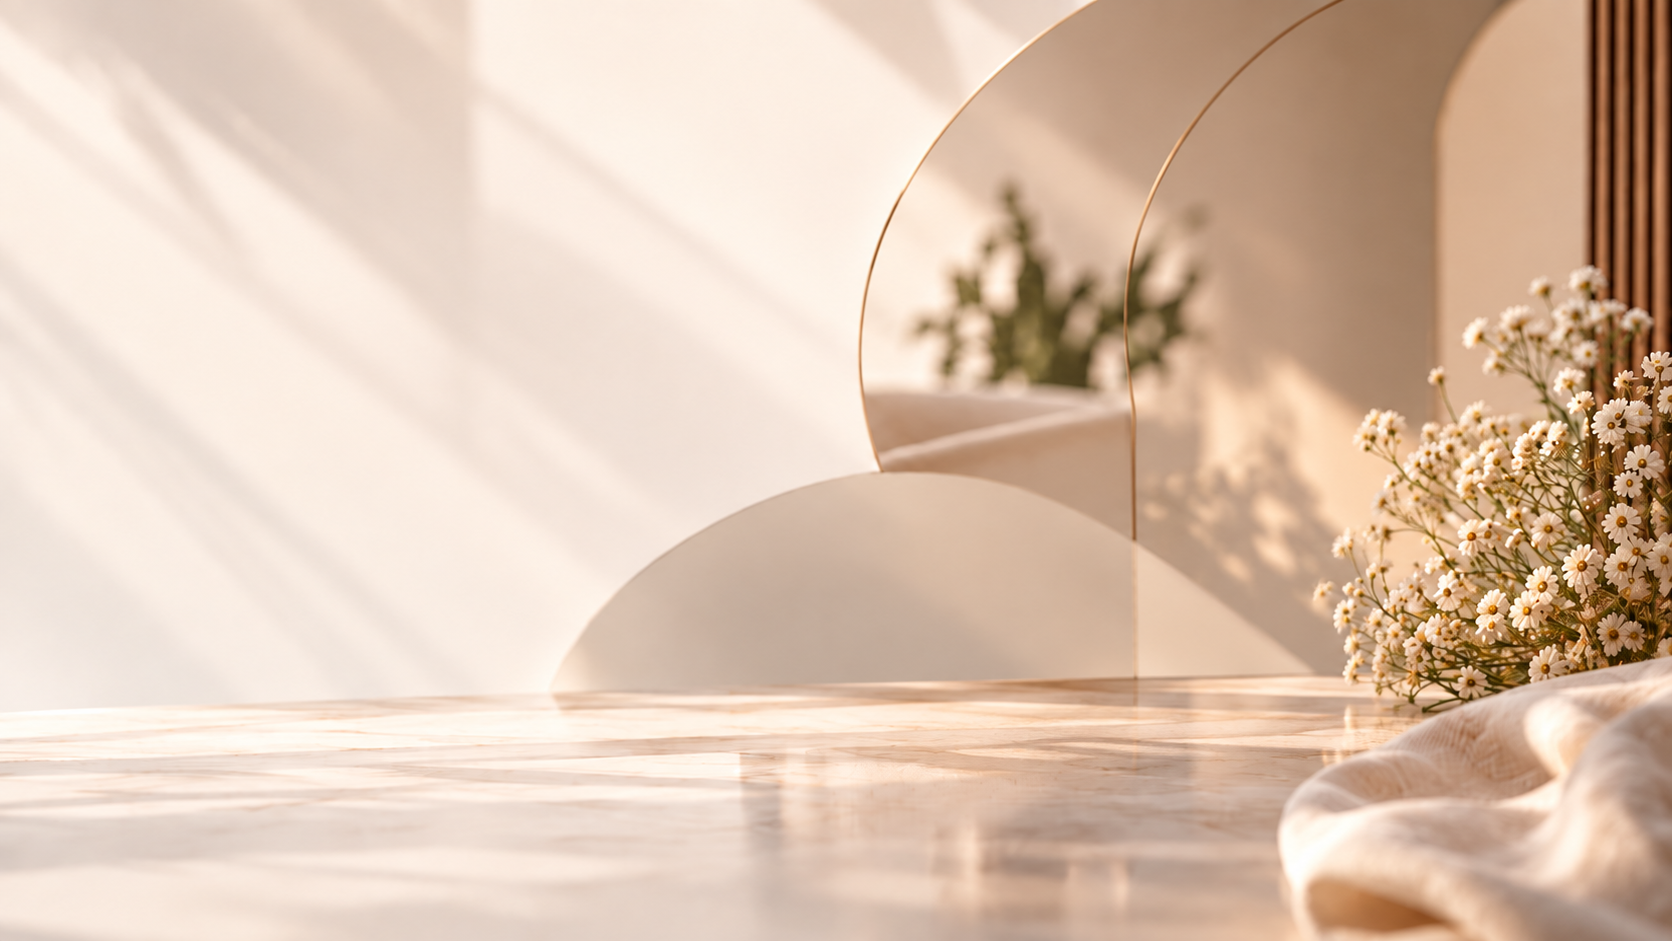
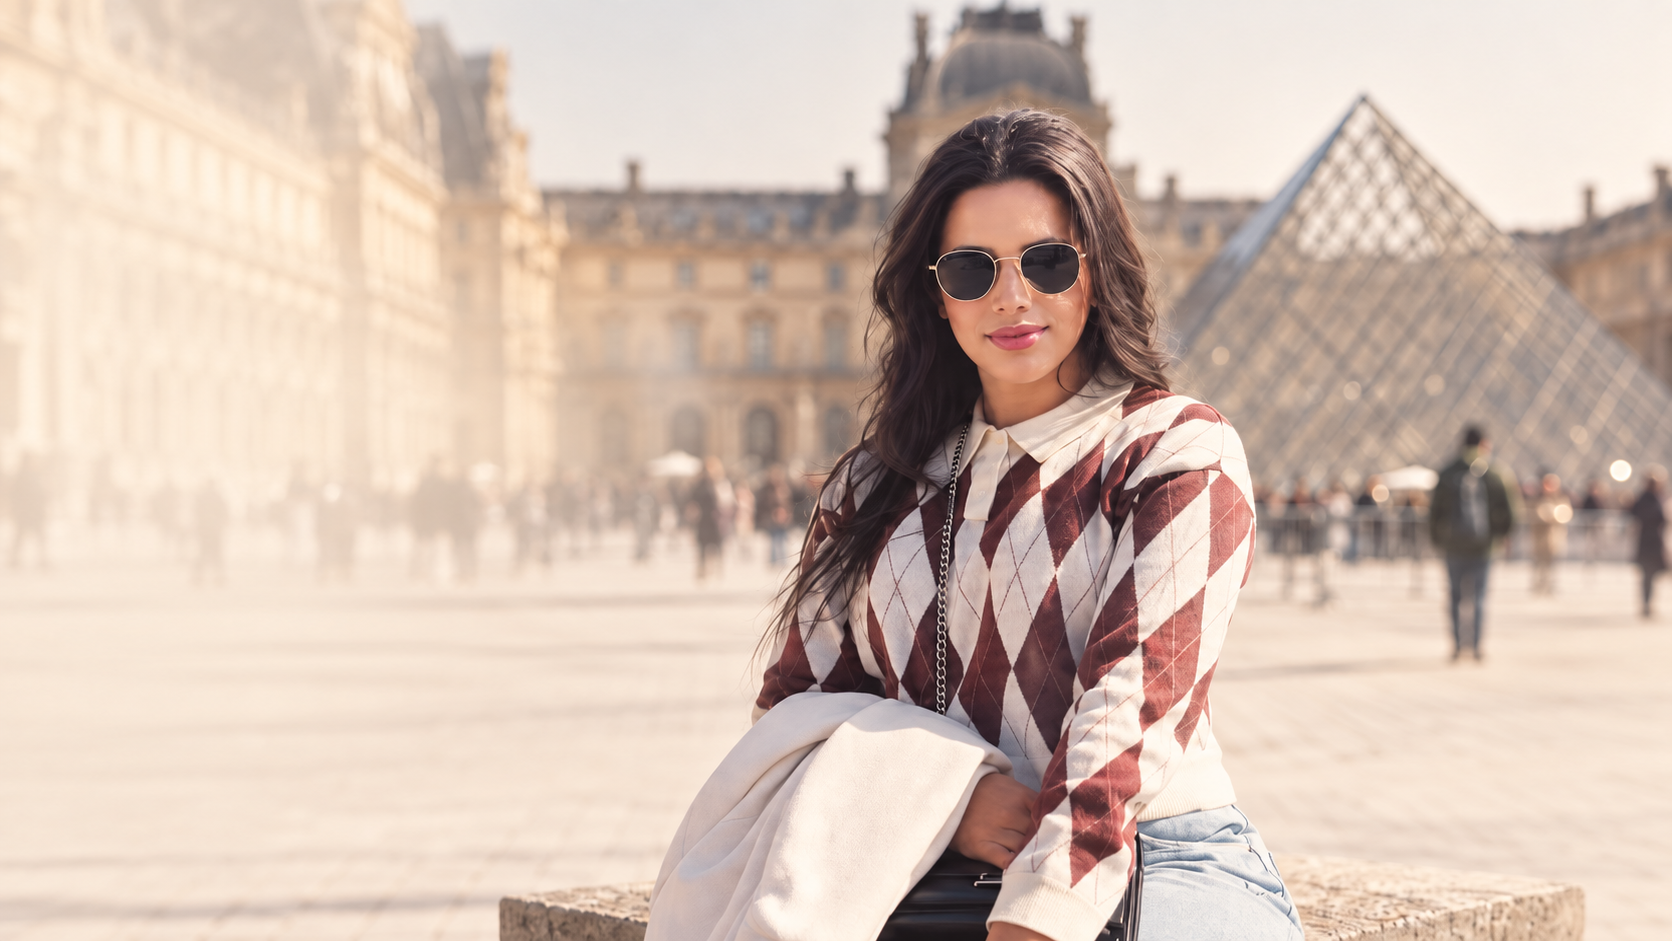
Hero com estetoscópio 3D, novo Instagram e ajustes nos carrosséis
- Adiciona container do modelo 3D na Hero e importmap do Three.js
- Atualiza imagem de fundo da Hero
- Troca link do Instagram para @sara_enfermeira
- Reduz carrossel da Sara para 4 fotos e remove efeitos de reveal dos carrosséis
- Remove data-wa-modal dos botões de WhatsApp

diff --git a/index.html b/index.html
@@ -68,11 +68,17 @@
       <div class="hero__veil" aria-hidden="true"></div>
 
       <div class="hero__inner container">
+        <!-- Estetoscópio 3D (GLB) — arraste para girar -->
+        <div class="hero__model" id="heroModel" role="img" aria-label="Estetoscópio em 3D. Clique e arraste para girar.">
+          <div class="hero__model-loader" aria-hidden="true"><span class="hero__model-progress"></span></div>
+          <div class="hero__model-stage"></div>
+        </div>
+
         <div class="hero__content">
           <span class="hero__line" aria-hidden="true"></span>
           <h1 class="hero__title">Cuidado profissional <br class="hero__br">no conforto da sua casa</h1>
           <p class="hero__subtitle">Assistência domiciliar de enfermagem</p>
-          <a class="btn btn--hero" href="https://wa.me/5516992502596" target="_blank" rel="noopener noreferrer" data-wa-modal>
+          <a class="btn btn--hero" href="https://wa.me/5516992502596" target="_blank" rel="noopener noreferrer">
             <span class="btn__label">Agendar atendimento</span>
             <svg class="btn__arrow" width="26" height="12" viewBox="0 0 26 12" fill="none" aria-hidden="true">
               <path d="M0 6h24M19 1l5 5-5 5" stroke="currentColor" stroke-width="1.25" stroke-linecap="round" stroke-linejoin="round"/>
@@ -144,17 +150,14 @@
         <div class="about__gallery reveal reveal--right" style="--d: 300ms">
           <p class="about__script" aria-hidden="true">Cuidar<br>também faz parte<br>de quem sou <span class="about__heart">♡</span></p>
 
-          <div class="carousel img-reveal-slides" id="carousel" style="--reveal-color: var(--linen); --wipe-d: 380ms" aria-roledescription="carrossel" aria-label="Fotos da Sara">
+          <div class="carousel" id="carousel" aria-roledescription="carrossel" aria-label="Fotos da Sara">
             <div class="carousel__viewport">
               <ul class="carousel__track">
                 <li class="carousel__slide"><img src="Assets/img - Sara - 1.jpeg" alt="Sara em frente ao Museu do Louvre, em Paris" style="object-position: 50% 20%" loading="eager" decoding="async"></li>
                 <li class="carousel__slide"><img src="Assets/img - Sara - 2.jpeg" alt="Sara sorrindo com boné, em um mirante" style="object-position: 50% 40%" loading="lazy" decoding="async"></li>
                 <li class="carousel__slide"><img src="Assets/img - Sara - 3.jpeg" alt="Sara ao lado do Mickey em um parque" style="object-position: 62% 40%" loading="lazy" decoding="async"></li>
                 <li class="carousel__slide"><img src="Assets/img - Sara - 4.jpeg" alt="Sara na neve com roupa de esqui" style="object-position: 55% 40%" loading="lazy" decoding="async"></li>
-                <li class="carousel__slide"><img src="Assets/img - Sara - 5.jpeg" alt="Sara em selfie ao pôr do sol" style="object-position: 50% 60%" loading="lazy" decoding="async"></li>
-                <li class="carousel__slide"><img src="Assets/img - Sara - 6.jpeg" alt="Sara com gorro em frente às montanhas" style="object-position: 30% 65%" loading="lazy" decoding="async"></li>
-                <li class="carousel__slide"><img src="Assets/img - Sara - 7.jpeg" alt="Sara em uma passarela sobre um rio cristalino" style="object-position: 52% 50%" loading="lazy" decoding="async"></li>
-                <li class="carousel__slide"><img src="Assets/img - Sara - 8.jpeg" alt="Sara em frente a uma roda-gigante" style="object-position: 58% 40%" loading="lazy" decoding="async"></li>
+                
               </ul>
             </div>
 
@@ -216,6 +219,7 @@
                 <p class="service__text">Acompanhamento profissional de enfermagem no ambiente domiciliar durante necessidades pontuais ou períodos de recuperação, incluindo avaliação e acompanhamento da evolução clínica.</p>
               </div>
             </li>
+            
             <li class="service reveal reveal--from-right" style="--d: 840ms">
               <span class="service__num" aria-hidden="true">04</span>
               <div class="service__body">
@@ -226,7 +230,7 @@
           </ol>
 
           <div class="services__gallery" data-reveal="0.25">
-            <div class="carousel carousel--patients reveal reveal--rise img-reveal-slides" style="--reveal-color: var(--sand); --wipe-d: 220ms" id="patientsCarousel" aria-roledescription="carrossel" aria-label="Fotos de atendimentos">
+            <div class="carousel carousel--patients reveal reveal--rise" id="patientsCarousel" aria-roledescription="carrossel" aria-label="Fotos de atendimentos">
               <div class="carousel__viewport">
                 <ul class="carousel__track">
                   <li class="carousel__slide"><img src="Assets/img - paciente - 1.jpeg" alt="Paciente sorrindo durante atendimento domiciliar" style="object-position: 50% 62%" loading="lazy" decoding="async"></li>
@@ -294,7 +298,7 @@
         </div>
 
         <div class="who__visual reveal reveal--right" style="--d: 300ms">
-          <figure class="who__photo img-reveal" style="--reveal-color: var(--linen); --wipe-d: 320ms">
+          <figure class="who__photo img-reveal" style="--wipe-d: 420ms">
             <img src="Assets/img - seção - 4.png" alt="Enfermeira segurando as mãos de uma paciente idosa em casa" loading="lazy" decoding="async">
           </figure>
 
@@ -427,8 +431,19 @@
   <div class="traveler" id="traveler" aria-hidden="true"><img src="" alt=""></div>
 
   <!-- WhatsApp flutuante -->
-  <a class="wa-float" href="https://wa.me/5516992502596" target="_blank" rel="noopener noreferrer" aria-label="Falar com Sara pelo WhatsApp" data-wa-modal><svg viewBox="0 0 24 24" fill="none" aria-hidden="true"><path d="M12 3.5a8.5 8.5 0 0 0-7.3 12.8L3.5 20.5l4.3-1.1A8.5 8.5 0 1 0 12 3.5Z" stroke="currentColor" stroke-width="1.5" stroke-linejoin="round"/><path d="M9.1 8.6c.2-.5.5-.5.8-.5h.5c.2 0 .4.1.5.4l.5 1.3c.1.2 0 .4-.1.6l-.5.6c.6 1.2 1.5 2.1 2.7 2.7l.6-.5c.2-.2.4-.2.6-.1l1.3.5c.3.1.4.3.4.5v.5c0 .3-.1.6-.5.8-.7.4-1.5.3-2.3 0-2.1-.9-3.7-2.4-4.5-4.5-.3-.8-.4-1.6 0-2.3Z" stroke="currentColor" stroke-width="1.3" stroke-linejoin="round"/></svg></a>
+  <a class="wa-float" href="https://wa.me/5516992502596" target="_blank" rel="noopener noreferrer" aria-label="Falar com Sara pelo WhatsApp"><svg viewBox="0 0 24 24" fill="none" aria-hidden="true"><path d="M12 3.5a8.5 8.5 0 0 0-7.3 12.8L3.5 20.5l4.3-1.1A8.5 8.5 0 1 0 12 3.5Z" stroke="currentColor" stroke-width="1.5" stroke-linejoin="round"/><path d="M9.1 8.6c.2-.5.5-.5.8-.5h.5c.2 0 .4.1.5.4l.5 1.3c.1.2 0 .4-.1.6l-.5.6c.6 1.2 1.5 2.1 2.7 2.7l.6-.5c.2-.2.4-.2.6-.1l1.3.5c.3.1.4.3.4.5v.5c0 .3-.1.6-.5.8-.7.4-1.5.3-2.3 0-2.1-.9-3.7-2.4-4.5-4.5-.3-.8-.4-1.6 0-2.3Z" stroke="currentColor" stroke-width="1.3" stroke-linejoin="round"/></svg></a>
 
   <script src="js/main.js" defer></script>
+
+  <!-- Three.js (ES modules via CDN) para o estetoscópio 3D da Hero -->
+  <script type="importmap">
+    {
+      "imports": {
+        "three": "https://cdn.jsdelivr.net/npm/three@0.170.0/build/three.module.js",
+        "three/addons/": "https://cdn.jsdelivr.net/npm/three@0.170.0/examples/jsm/"
+      }
+    }
+  </script>
+  <script type="module" src="js/hero-3d.js"></script>
 </body>
 </html>

diff --git a/atendimento.html b/atendimento.html
@@ -337,7 +337,7 @@
               <span class="contact__icon" aria-hidden="true"><svg viewBox="0 0 24 24" fill="none" aria-hidden="true"><rect x="3.5" y="3.5" width="17" height="17" rx="5" stroke="currentColor" stroke-width="1.5"/><circle cx="12" cy="12" r="3.8" stroke="currentColor" stroke-width="1.5"/><circle cx="17" cy="7" r="1" fill="currentColor"/></svg></span>
               <div>
                 <span class="contact__key">Instagram</span>
-                <a class="contact__value" href="https://www.instagram.com/sara.asordeep?stkn=MTVyc2oydzE3dmZpdg==" target="_blank" rel="noopener noreferrer" aria-label="Instagram @sara.asordeep (abre em nova aba)">@sara.asordeep</a>
+                <a class="contact__value" href="https://www.instagram.com/sara_enfermeira?utm_source=ig_web_button_share_sheet&rpxt=ZDNlZDc0MzIxNw==" target="_blank" rel="noopener noreferrer" aria-label="Instagram @sara_enfermeira (abre em nova aba)">@sara_enfermeira</a>
               </div>
             </li>
           </ul>
